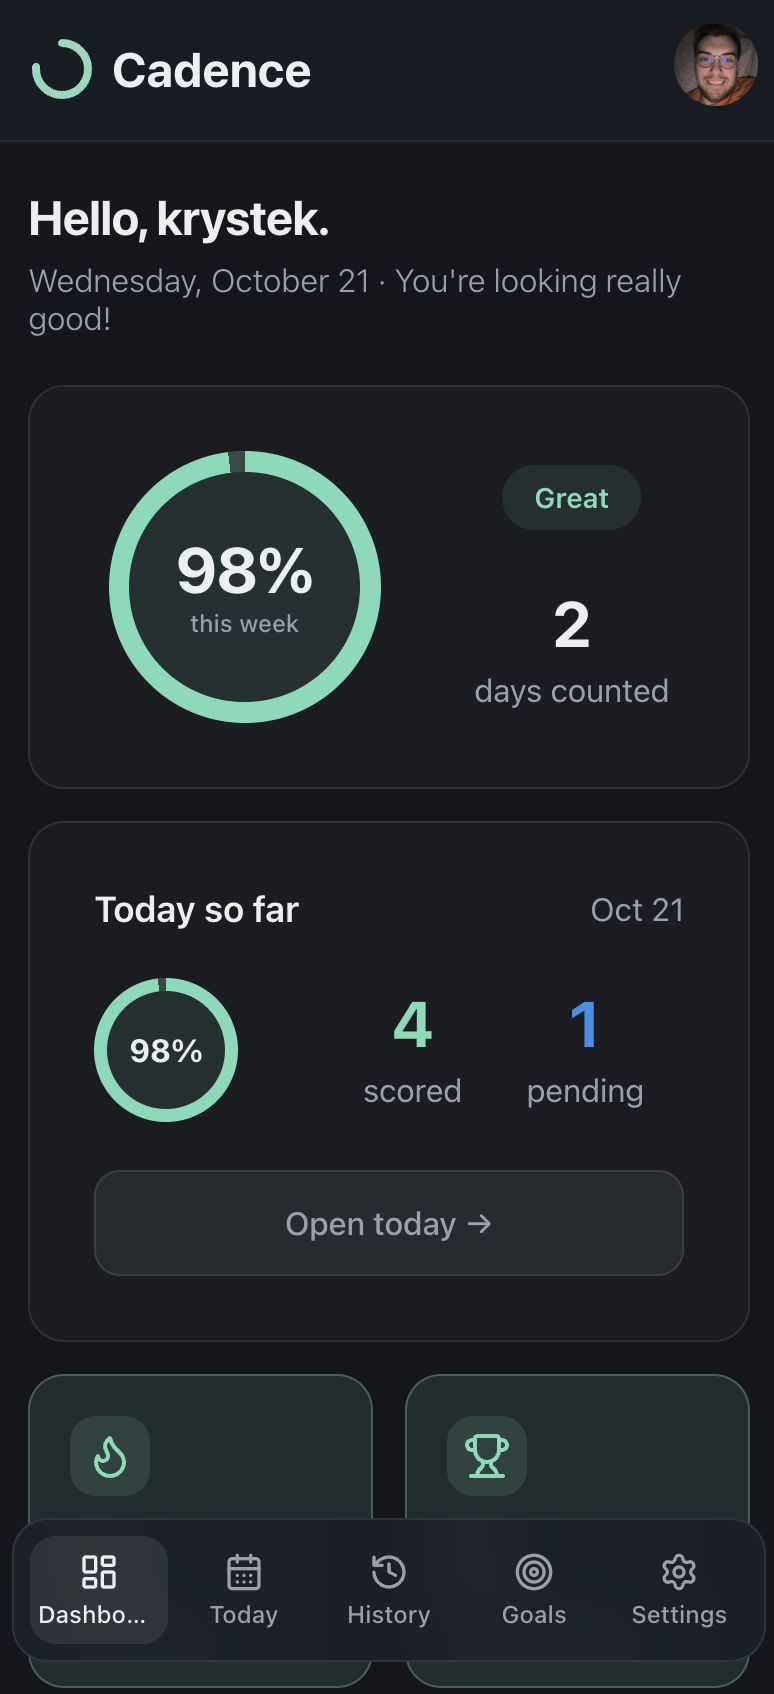
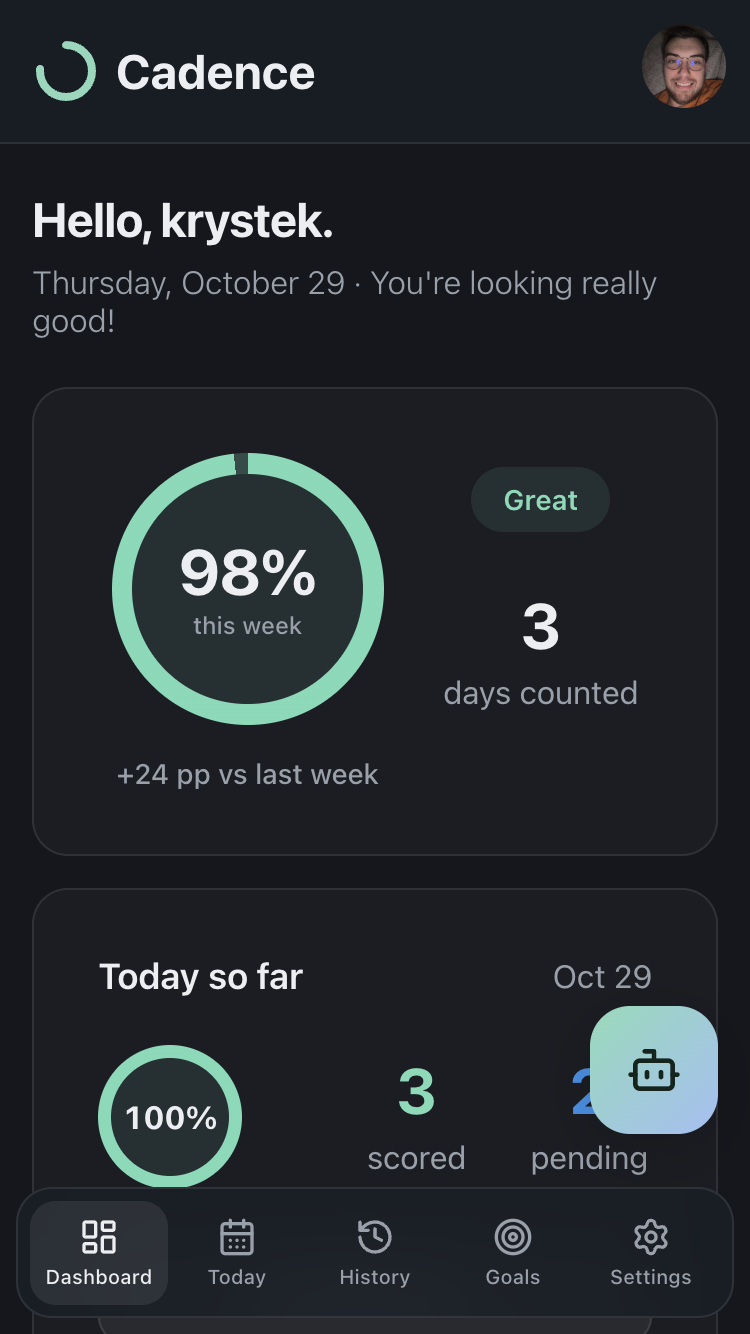
update all screens

diff --git a/README.md b/README.md
@@ -39,6 +39,10 @@ Instead of focusing only on the finish line, Cadence emphasizes the rhythm of sh
 
 ![Daily Progress Tracking](docs/images/today.png)
 
+### AI Assistant
+
+![AI Goal Update](docs/images/today-AI.png)
+
 ### History
 
 ![Progress History](docs/images/history.png)
